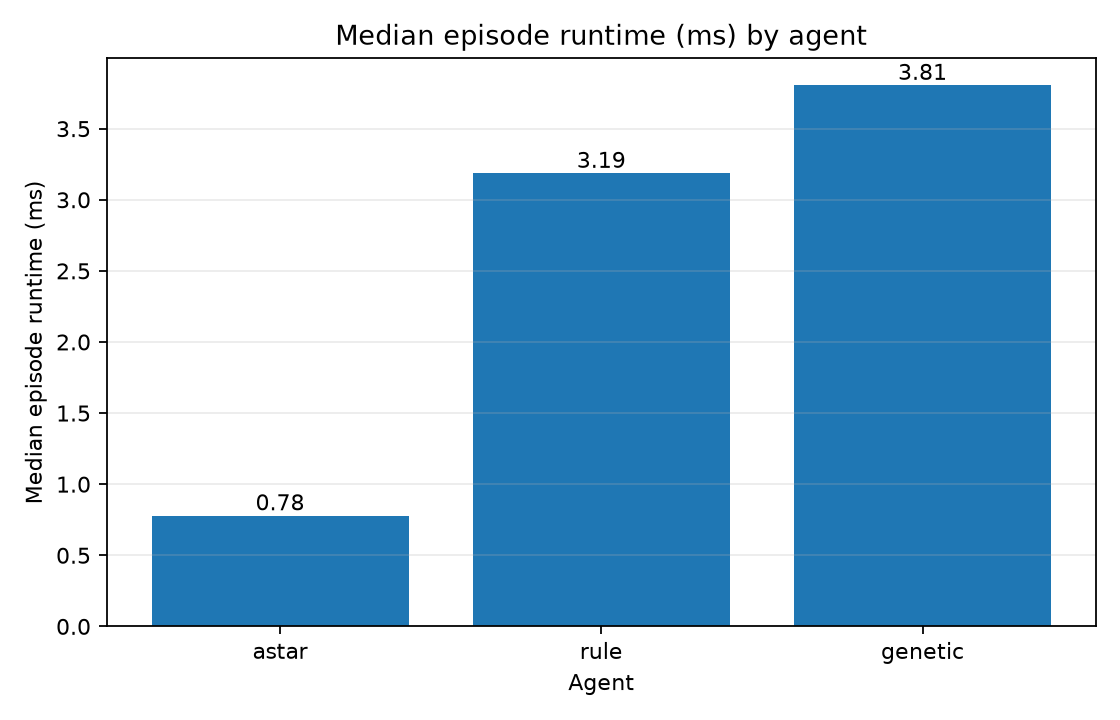
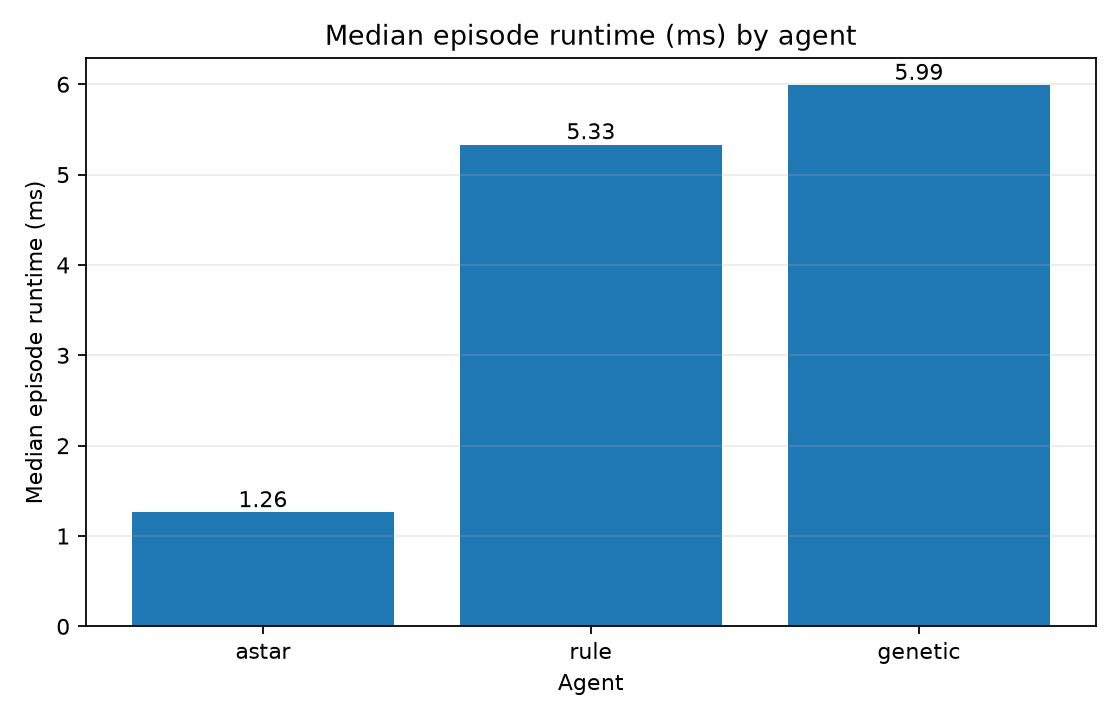
fix(provenance): capture source state correctly and prevent maps conflicts

diff --git a/experiment.py b/experiment.py
@@ -315,16 +315,7 @@ def write_report(
     (results_dir / "experiment_summary.txt").write_text("\n".join(lines) + "\n", encoding="utf-8")
 
 
-def write_run_metadata(
-    results_dir: Path,
-    test_seed: int = 20260730,
-    per_difficulty: int = 10,
-    max_steps: int = 250,
-    timing_repeats: int = 3,
-    weights_path: str = "best_weights.json",
-) -> None:
-    results_dir.mkdir(parents=True, exist_ok=True)
-
+def capture_source_state() -> tuple[str, bool]:
     source_commit = os.getenv("GITHUB_SHA", "").strip()
     if not source_commit:
         try:
@@ -353,6 +344,22 @@ def write_run_metadata(
             source_tree_clean = False
     except Exception:
         pass
+
+    return source_commit, source_tree_clean
+
+
+def write_run_metadata(
+    results_dir: str | Path,
+    test_seed: int = 20260730,
+    per_difficulty: int = 10,
+    max_steps: int = 250,
+    timing_repeats: int = 3,
+    weights_path: str = "best_weights.json",
+    source_commit: str = "unknown",
+    source_tree_clean: bool = False,
+) -> None:
+    results_dir = Path(results_dir)
+    results_dir.mkdir(parents=True, exist_ok=True)
 
     weights_file = Path(weights_path)
     weights_canonical_sha256 = ""
@@ -439,6 +446,8 @@ def analyze_and_export(
     max_steps: int = 250,
     timing_repeats: int = 3,
     weights_path: str = "best_weights.json",
+    source_commit: str = "unknown",
+    source_tree_clean: bool = False,
 ) -> None:
     results_dir = Path(results_dir)
     results_dir.mkdir(parents=True, exist_ok=True)
@@ -480,6 +489,8 @@ def analyze_and_export(
         max_steps=max_steps,
         timing_repeats=timing_repeats,
         weights_path=weights_path,
+        source_commit=source_commit,
+        source_tree_clean=source_tree_clean,
     )
 
 
@@ -494,6 +505,8 @@ def main() -> None:
     parser.add_argument("--timing-repeats", type=int, default=3)
     parser.add_argument("--skip-generate", action="store_true")
     args = parser.parse_args()
+
+    source_commit, source_tree_clean = capture_source_state()
 
     if not args.skip_generate:
         manifest = generate_test_suite(
@@ -518,6 +531,8 @@ def main() -> None:
         max_steps=args.max_steps,
         timing_repeats=args.timing_repeats,
         weights_path=args.weights,
+        source_commit=source_commit,
+        source_tree_clean=source_tree_clean,
     )
     print(f"Completed {len(rows)} episodes.")
     print(f"Results saved in {args.results_dir}")

diff --git a/train_genetic.py b/train_genetic.py
@@ -15,7 +15,10 @@ from wumpus_world.training.genetic_algorithm import (
 
 def main() -> None:
     parser = argparse.ArgumentParser(description="Train Wumpus hybrid genetic weights.")
-    parser.add_argument("--maps", nargs="+")
+    group = parser.add_mutually_exclusive_group()
+    group.add_argument("--maps", nargs="+")
+    group.add_argument("--regenerate-training-maps", action="store_true")
+    
     parser.add_argument("--population", type=int, default=24)
     parser.add_argument("--generations", type=int, default=24)
     parser.add_argument("--mutation-rate", type=float, default=0.10)
@@ -29,7 +32,7 @@ def main() -> None:
     parser.add_argument("--history", default="results/genetic_history.csv")
     parser.add_argument("--summary", default="results/genetic_training_summary.json")
     parser.add_argument("--plot", default="results/genetic_fitness.png")
-    parser.add_argument("--regenerate-training-maps", action="store_true")
+    
     args = parser.parse_args()
 
     if args.regenerate_training_maps:

diff --git a/tests/test_cli.py b/tests/test_cli.py
@@ -219,3 +219,27 @@ def test_regenerate_works_without_existing_maps(tmp_path: Path) -> None:
     # Verify that it created maps
     generated_maps = list(maps_dir.glob("training_*.txt"))
     assert len(generated_maps) == 12
+
+def test_maps_and_regenerate_mutually_exclusive(tmp_path: Path) -> None:
+    project_root = Path(__file__).resolve().parents[1]
+    train_script = project_root / "train_genetic.py"
+    
+    env = dict(os.environ)
+    env["PYTHONPATH"] = str(project_root / "src")
+
+    result = subprocess.run(
+        [
+            sys.executable,
+            str(train_script),
+            "--regenerate-training-maps",
+            "--maps", "custom1.txt", "custom2.txt"
+        ],
+        cwd=tmp_path,
+        env=env,
+        capture_output=True,
+        text=True,
+        check=False
+    )
+    
+    assert result.returncode != 0
+    assert "not allowed with argument" in result.stderr

diff --git a/tools/check_repository_consistency.py b/tools/check_repository_consistency.py
@@ -233,6 +233,11 @@ def check_run_metadata(errors: list[str]) -> None:
             if proc.returncode != 0:
                 errors.append(f"source_commit '{source_commit}' does not exist in local Git object database")
 
+    if "source_tree_clean" not in data:
+        errors.append("run_metadata.json is missing source_tree_clean")
+    elif data["source_tree_clean"] is not True:
+        errors.append("Experiment artifacts were generated from a dirty source tree.")
+
     meta_version = data.get("project_version", "")
     expected_version = get_pyproject_version()
     if meta_version != expected_version:

diff --git a/docs/build_artifacts.py b/docs/build_artifacts.py
@@ -95,6 +95,7 @@ def load_run_metadata() -> dict[str, Any]:
     required_keys = [
         "project_version",
         "source_commit",
+        "source_tree_clean",
         "training_seed",
         "training_map_seed",
         "test_seed",
